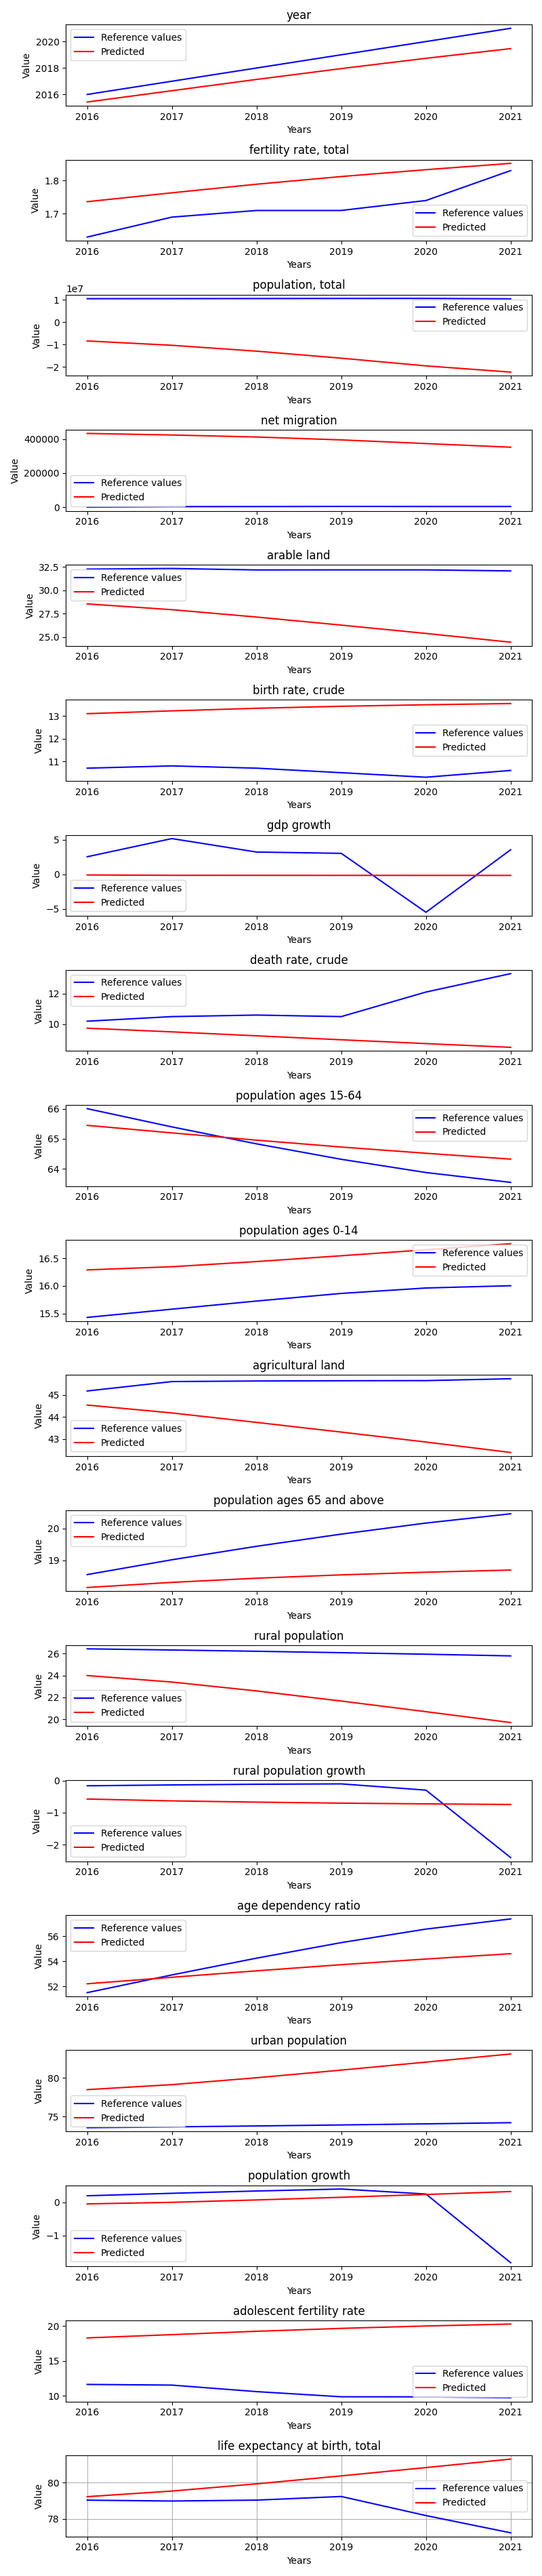
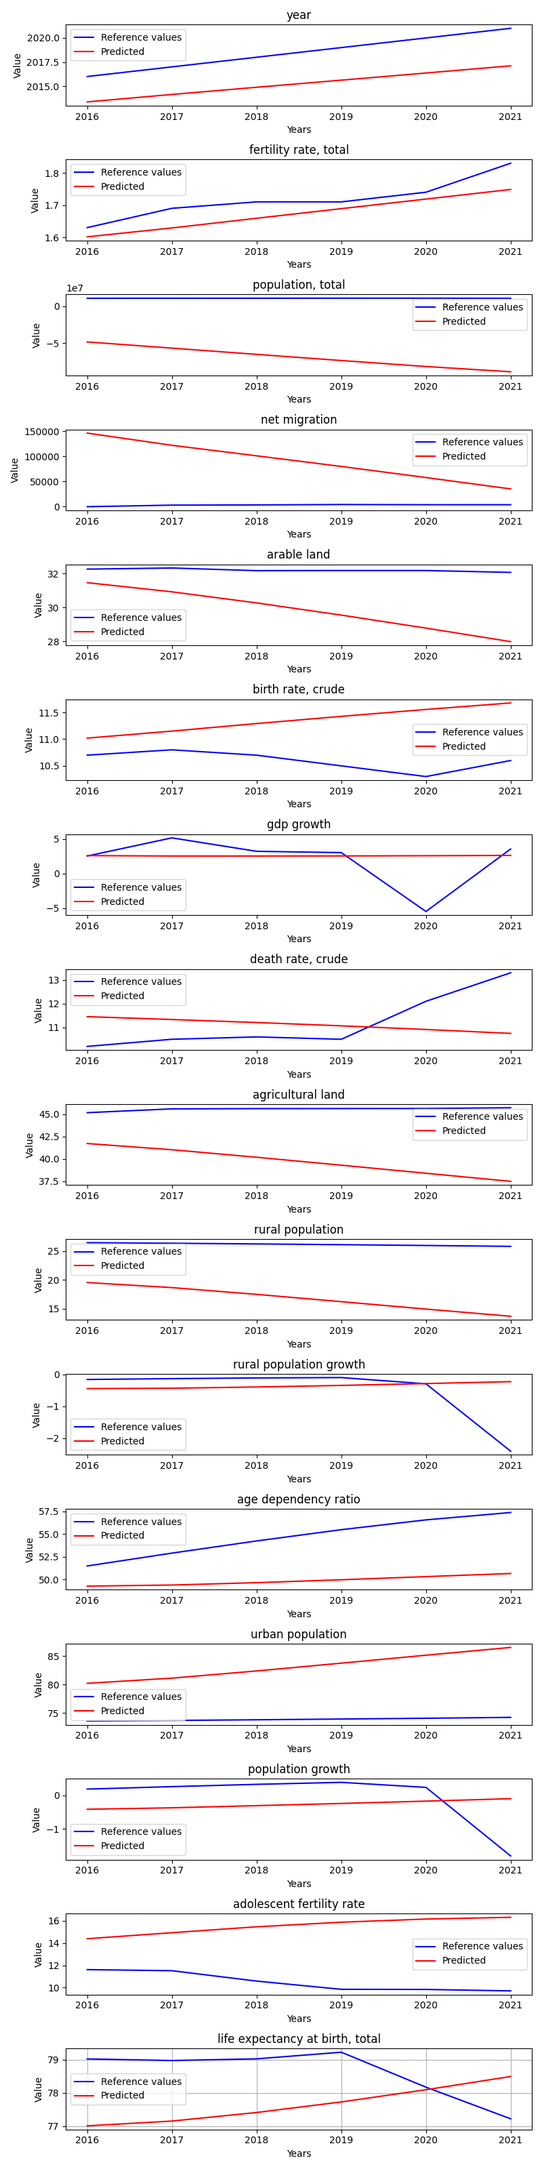
add all states without high error features - data experiment

diff --git a/local_model_benchmark/experiments/data_experiments.py b/local_model_benchmark/experiments/data_experiments.py
@@ -8,7 +8,7 @@ import pandas as pd
 import logging
 import pprint
 
-
+from typing import List
 from config import setup_logging, Config
 from local_model_benchmark.utils import (
     preprocess_single_state_data,
@@ -27,6 +27,52 @@ settings = Config()
 logger = logging.getLogger("benchmark")
 
 # TODO: make this robust for other architectures -> You need train function, data preprocessing function?
+# TODO: FIX all TEMPORARY FIX marks
+
+# Get the list of all available features
+ALL_FEATURES = [
+    "year",
+    "Fertility rate, total",
+    "Population, total",
+    "Net migration",
+    "Arable land",
+    "Birth rate, crude",
+    "GDP growth",
+    "Death rate, crude",
+    "Agricultural land",
+    "Rural population",
+    "Rural population growth",
+    "Age dependency ratio",
+    "Urban population",
+    "Population growth",
+    "Adolescent fertility rate",
+    "Life expectancy at birth, total",
+]
+
+ALL_FEATURES = [col.lower() for col in ALL_FEATURES]
+
+
+# Setup features to use all
+FEATURES = [
+    "year",
+    # "Fertility rate, total",
+    # "Population, total",
+    # "Net migration",
+    # "Arable land",
+    # "Birth rate, crude",
+    # "GDP growth",
+    # "Death rate, crude",
+    # "Agricultural land",
+    # "Rural population",
+    # "Rural population growth",
+    # "Age dependency ratio",
+    # "Urban population",
+    # "Population growth",
+    # "Adolescent fertility rate",
+    # "Life expectancy at birth, total",
+]
+
+FEATURES = [col.lower() for col in FEATURES]
 
 
 # Data based experiments
@@ -35,7 +81,7 @@ logger = logging.getLogger("benchmark")
 
 class OneStateDataExperiment(BaseExperiment):
 
-    def run(self, state: str, split_rate: float):
+    def run(self, state: str, split_rate: float, features: List[str]):
         """
         Trains and evaluates model using a single state data.
 
@@ -43,6 +89,10 @@ class OneStateDataExperiment(BaseExperiment):
             state (str): State which data will be used to train model.
             split_rate (float): Split rate for training and validation data.
         """
+
+        # Get features
+        FEATURES = features
+
         # Create readme
         self.create_readme()
 
@@ -55,9 +105,6 @@ class OneStateDataExperiment(BaseExperiment):
 
         # Exclude country name
         state_df = state_df.drop(columns=["country name"])
-
-        # Get features
-        FEATURES = [col.lower() for col in state_df.columns]
 
         single_state_params = LSTMHyperparameters(
             input_size=len(FEATURES),
@@ -140,11 +187,9 @@ class OneStateDataExperiment(BaseExperiment):
 
 
 ## 2. Use data for all states (whole dataset)
-
-
 class AllStatesDataExperiments(BaseExperiment):
 
-    def run(self, state: str, split_rate: float):
+    def run(self, state: str, split_rate: float, features: List[str]):
         """
         Use whole dataset to train and evaluate model.
 
@@ -153,6 +198,9 @@ class AllStatesDataExperiments(BaseExperiment):
             split_rate (float): Split rate for training and validation data.
         """
 
+        # Set features const
+        FEATURES = features
+
         # Create readme
         self.create_readme()
 
@@ -160,12 +208,6 @@ class AllStatesDataExperiments(BaseExperiment):
         states_loader = StatesDataLoader()
 
         all_states = states_loader.load_all_states()
-
-        # Get only numerical features
-        FEATURES = [
-            col.lower()  # Lower to ensure key compatibility
-            for col in all_states[state].select_dtypes(include="number").columns
-        ]
 
         # Get hyperparameters for training
         all_state_state_params = LSTMHyperparameters(
@@ -201,7 +243,7 @@ class AllStatesDataExperiments(BaseExperiment):
 
         # Scale data
         scaled_train_data, all_states_scaler = states_loader.scale_data(
-            states_train_data_dict, scaler=MinMaxScaler()
+            states_train_data_dict, scaler=MinMaxScaler(), features=FEATURES
         )
 
         # Create input and target sequences
@@ -278,7 +320,8 @@ class AllStatesDataExperiments(BaseExperiment):
 class OnlyStationaryFeaturesDataExperiment(BaseExperiment):
 
     def run(self, state: str, split_rate: float) -> None:
-        """_summary_
+        """
+        Trains model using one state data only with stationary features.
 
         Args:
             state (str): State which data will be used to train model.
@@ -414,19 +457,84 @@ def run_data_experiments() -> None:
         name="OneStateDataExperiment",
         description="Train and evaluate model on single state data.",
     )
+    EXP1_FEATURES = [
+        "year",
+        "Fertility rate, total",
+        "Population, total",
+        "Net migration",
+        "Arable land",
+        "Birth rate, crude",
+        "GDP growth",
+        "Death rate, crude",
+        "Agricultural land",
+        "Rural population",
+        "Rural population growth",
+        "Age dependency ratio",
+        "Urban population",
+        "Population growth",
+        "Adolescent fertility rate",
+        "Life expectancy at birth, total",
+    ]
+    EXP1_FEATURES = [col.lower() for col in EXP1_FEATURES]
+
     exp2 = AllStatesDataExperiments(
         name="AllStatesDataExperiments",
         description="Train and evaluate model on whole dataset.",
     )
+    EXP2_FEATURES = [
+        "year",
+        "Fertility rate, total",
+        "Population, total",
+        "Net migration",
+        "Arable land",
+        "Birth rate, crude",
+        "GDP growth",
+        "Death rate, crude",
+        "Agricultural land",
+        "Rural population",
+        "Rural population growth",
+        "Age dependency ratio",
+        "Urban population",
+        "Population growth",
+        "Adolescent fertility rate",
+        "Life expectancy at birth, total",
+    ]
+    EXP2_FEATURES = [col.lower() for col in EXP2_FEATURES]
+
+    exp2_1 = AllStatesDataExperiments(
+        name="AllStatesDataExperimentsWithoutHighErrorFeatures",
+        description="Train and evaluate model on whole dataset.",
+    )
+    EXP2_1_FEATURES = [
+        "year",
+        "Fertility rate, total",
+        # "Population, total",
+        # "Net migration",
+        "Arable land",
+        "Birth rate, crude",
+        "GDP growth",
+        "Death rate, crude",
+        "Agricultural land",
+        "Rural population",
+        "Rural population growth",
+        "Age dependency ratio",
+        "Urban population",
+        "Population growth",
+        "Adolescent fertility rate",
+        "Life expectancy at birth, total",
+    ]
+    EXP2_1_FEATURES = [col.lower() for col in EXP2_1_FEATURES]
+
     exp3 = OnlyStationaryFeaturesDataExperiment(
         name="OnlyStationaryFeaturesDataExperiment",
         description="Train and evaluate model on single state data with all features with boundaries (for example % values, features with some mean.) ",
     )
 
     # Run experiments with parameters
-    exp1.run(state="Czechia", split_rate=0.8)
-    exp2.run(state="Czechia", split_rate=0.8)
-    exp3.run(state="Czechia", split_rate=0.8)
+    # exp1.run(state="Czechia", split_rate=0.8, features=EXP1_FEATURES)
+    exp2.run(state="Czechia", split_rate=0.8, features=EXP2_FEATURES)
+    exp2_1.run(state="Czechia", split_rate=0.8, features=EXP2_1_FEATURES)
+    # exp3.run(state="Czechia", split_rate=0.8)
 
 
 if __name__ == "__main__":

diff --git a/src/preprocessors/multiple_states_preprocessing.py b/src/preprocessors/multiple_states_preprocessing.py
@@ -139,6 +139,7 @@ class StatesDataLoader:
         self,
         states_data: Dict[str, pd.DataFrame],
         scaler: MinMaxScaler | RobustScaler | StandardScaler,
+        features: List[str],
     ) -> Tuple[Dict[str, pd.DataFrame], MinMaxScaler | RobustScaler | StandardScaler]:
         """
         Scales data for in the dafarame. Scales only numerical data.
@@ -146,16 +147,23 @@ class StatesDataLoader:
         Args:
             states_data (Dict[str, pd.DataFrame]): States data to scale. The dictionary key should be the name of the state
             scaler (MinMaxScaler | RobustScaler | StandardScaler): Scaler which is used for data scaling.
+            features (List[str]): List of features to be scaled
 
         Returns:
             out (Tuple[Dict[str, pd.DataFrame], MinMaxScaler | RobustScaler | StandardScaler]): Each state data scaled dict, fitted scaler.
         """
+
+        # Set features const
+        FEATURES = features
 
         # Merge data by rows
         states_merged_df = pd.concat(list(states_data.values()), axis=0)
 
         # Get only numerical columns
         numerical_features_df = states_merged_df.select_dtypes(include=["number"])
+
+        # TEMPORARY FIX
+        numerical_features_df = numerical_features_df[FEATURES]
 
         logger.debug(f"Numerical: {numerical_features_df.columns}")
 
@@ -182,7 +190,7 @@ class StatesDataLoader:
             [categorical_features_df, merged_scaled_data_df], axis=1
         )
 
-        logger.critical(
+        logger.debug(
             f"Concatenated merged scaled dataframe: {merged_scaled_data_df.columns} {merged_scaled_data_df.shape}"
         )
 

diff --git a/local_model_benchmark/experiment_results/AllStatesDataExperimentsWithoutHighErrorFeatures/README.md b/local_model_benchmark/experiment_results/AllStatesDataExperimentsWithoutHighErrorFeatures/README.md
@@ -1,11 +1,11 @@
 
-# AllStatesDataExperiments
+# AllStatesDataExperimentsWithoutHighErrorFeatures
 
 **Description:** Train and evaluate model on whole dataset.
 
 ## Hyperparameters
 ```
-Input size:         16
+Input size:         14
 Batch size:         1
 
 Hidden size:        128
@@ -21,8 +21,6 @@ Bidirectional:      False
 ```
 year
 fertility rate, total
-population, total
-net migration
 arable land
 birth rate, crude
 gdp growth
@@ -36,20 +34,3 @@ population growth
 adolescent fertility rate
 life expectancy at birth, total
 ```
-
-## Loss graph
-
-
-![Loss graph](./plots/loss.png)
-
-
-## Evaluation of the model - state: Czechia
-
-
-![Evaluation of the model - state: Czechia](./plots/evaluation_czechia.png)
-
-# Metric result
-{'mae': 4993622.02022286,
- 'mse': 410199188133945.75,
- 'r2': -99292.67308669585,
- 'rmse': 5069322.640311942}
